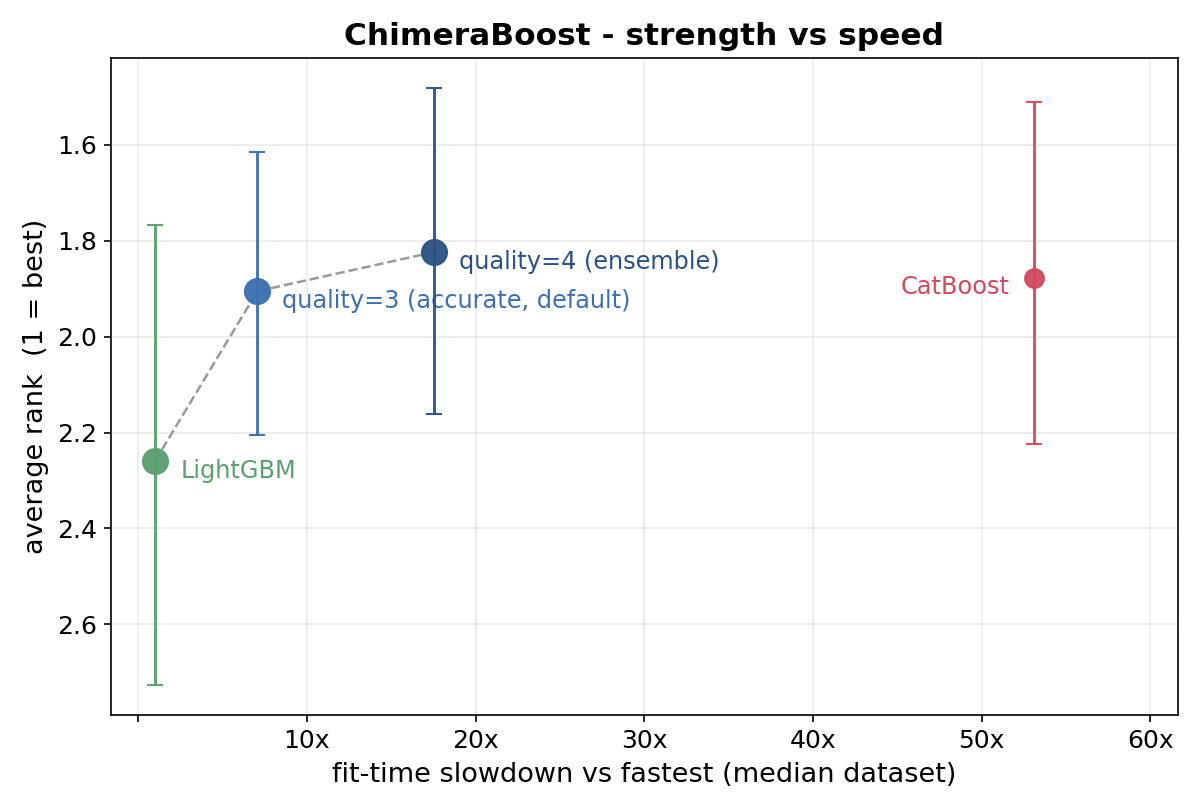
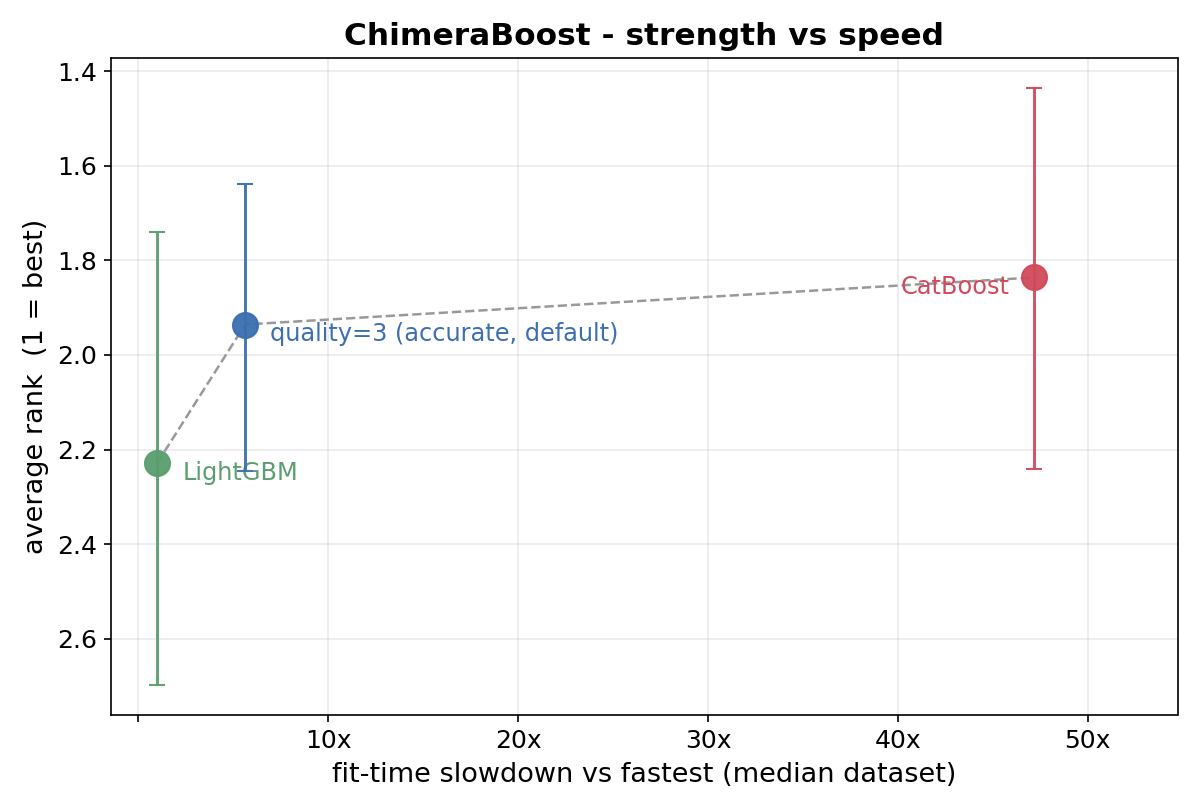
Refresh both benchmark charts on 0.33.0
- images/public_pareto.png: the published chart, re-run on the public
  suite (results/20260924-090541.json). The default's average rank is
  1.94 against CatBoost's 1.84 and LightGBM's 2.23, at a median 5.6x
  slowdown against 47.2x and 1.0x.
- images/pareto.png: the internal skill chart, re-rendered from the
  decide-tier run on 0.33.0 (results/20260924-130232.json). Every
  per-dataset score matches the 2026-09-22 run.
- docs/benchmarks.md and docs/PROJECT_STATUS.md quote the new numbers.
- CAMPAIGN_PLAN.md: facts for both runs, the F5 chart refresh marked
  done, issue #163 named as F7's next rung, and a new harness item
  H(14): the dataset metadata keeps the first-finished seed's
  test-split scale, which moves R2 by up to 0.0002 between runs.

diff --git a/benchmarks/CAMPAIGN_PLAN.md b/benchmarks/CAMPAIGN_PLAN.md
@@ -169,6 +169,8 @@ fact: 2026-09-23 | the recentred candidate alone blows up on tie-heavy targets (
 fact: 2026-09-24 | standing quantile BASE = `results/quantile-20260924-005306.json` (the Q7 default: depth 6, `conformalize="auto"`, `audition=True`, with the full field, ~3 h): gr head vs CatBoost MQ 27W-9L (+0.29%), vs RigidShift 29W-7L, vs LightGBM per-level 30W-6L, vs our per-level 34W-2L, vs NGBoost 35W-1L; 90% coverage 0.903 on gr; CRPS skill 0.6006 @ 7.4x over 59 keys, CatBoost MQ 0.5982 @ 133x off the frontier
 fact: 2026-09-24 | the muse sandbox ACL on `C:\Users\Nathan\.config\muse` refilled to 1,820 lines in about ten launches after the 2026-09-23 morning reset and failed with error 1340 at the end of a task (I062); reset again to 4 lines. Reset it every ~8 launches
 fact: 2026-09-24 | released 0.33.0 (aeab6ec, tag v0.33.0): CI green on 47ee154 (py3.9-3.13 on Ubuntu, py3.12 on Windows, ruff, docs deploy), 1217 passed locally, a 14-module wheel, `twine check` passed; PyPI and the GitHub release live; a clean-venv install from PyPI passed a smoke test outside the repo (the quantile audition picked `recentred`, 90% coverage 0.91, SHAP (10, 5, 19))
+fact: 2026-09-24 | the published chart on 0.33.0 (`results/20260924-090541.json`, public suite, 22 datasets x 3 seeds, 21 scored): the default avg rank 1.94 [1.64-2.24], CatBoost 1.84 [1.43-2.24], LightGBM 2.23 [1.74-2.70]; median slowdown 5.6x / 47.2x / 1.0x; the harness summary has the default 8W-13L against CatBoost (median -0.17%) and 14W-7L against LightGBM (+0.43%). The 2026-08-01 chart read 1.90 against CatBoost's 1.88 at 7.1x / 53.1x
+fact: 2026-09-24 | the internal chart on 0.33.0 (`results/20260924-130232.json`, decide tier, 3 seeds, the nine-arm field without the NoCatCount control): every per-seed metric equals `20260922-144219`'s bar one LightGBM Brier at the 17th digit, and the win rates are unchanged (default 70.7%). Skill: the default 0.4052 clf / 0.7341 reg at 4.9x / 6.3x, CatBoost 0.4057 / 0.7294 at 53.0x / 47.8x. Every arm's R² still moved by up to 0.0002, because the run's dataset metadata keeps the test-split scale of whichever seed finished first (H(14))
 
 ## Beam
 
@@ -178,9 +180,9 @@ fact: 2026-09-24 | released 0.33.0 (aeab6ec, tag v0.33.0): CI green on 47ee154 (
 | F4 | Profiling-driven speed | ACTIVE (C2 + C1 + C1b + C4a + C4a-2 + C3 shipped; measured objects exhausted; loop now on the shortlist queue) | **C3 SHIPPED (PR #127, c9c0f3d; I029)**: fused binary Logloss layer, bit-identical 155/155, Grinsztajn binary fits −4.7 to −5.7%, kick −4.2%, controls flat — the first F4 unit that reaches Grinsztajn. Next: the shortlist queue (H(4)+H(5), H(1), R2, R3); F4 has no measured exact-rewrite object left. Parked: C4b shared TS permutations (algorithm change). **C4a-2 SHIPPED (PR #126, 3706494; I028)**: the numeric block cast once per fit, porto-seguro −8.5% / kick −3.4%. **C4a SHIPPED (PR #125, a8f04c8; I027)**: categorical columns are factorized once per fit and each leg's codes derived by an integer re-rank — bit-identical 155/155, default fit −9.4% kick / −18.9% sf-police / −18.1% porto-seguro / −8.2% okcupid-stem, numeric control flat. |
 | F2 | Sub-gate cross via CV-averaged race | KILLED (I017) | 5/5 engaged precision at 3-7x cost; S1 did not replicate |
 | F3 | Classifier forced-cross | KILLED 2026-09-21 (S3, I021) | gr binary engaged 10W-13L, median −0.04%: the race earns its fee on the classifier. Knob stays opt-in (PR #117), no rung-1 pin |
-| F5 | hc-Brier gap vs CatBoost | **SHIPPED 2026-09-22 (I046, PR #145, d14bf38): `cat_count_features` on by default** (public 5W-1L, decide hc 6W-1L, bit-identical elsewhere, chart refreshed) — earlier: I038 library form, I039 S3 PASS | the published chart (`public_pareto.png`) refresh: IN FLIGHT 2026-09-24 on 0.33.0 (approved with the release plan); S7 (multiclass CTR width) is the family's next idea if picked. History: **A per-categorical count column closes 47% of CatBoost's hc edge** (I035): 4W-1L on the gap sets, +0.43% Brier median, gains ordered by cardinality, sf-police and Traffic unanimous across seeds. The gap is the encoder (CatBoost on our TS keeps none of its edge); not the prior target, Counter, permutations or quantization (TS quantization kills on big sets, +1.7–3.6% on the two small controls — a small-data pointer, parked). `cat_count_features` (opt-in, card ≥ 256, invisible to the cross and linear-leaf races; I038) on the decision tier (I039): gr 0-0-59 exact ties, the 7 hc sets without a qualifying column exact ties, the engaged 7 **6W-1L** at +0.20% median (sf-police +0.73%, Traffic +0.86% Brier; employee_salaries +2.45%, wine-reviews +0.56% RMSE), hc@time 4-0, fit ×1.09 on hc (engaged median 1.165). PR up with the flag OFF. The random-effects alternative (per-column ANOVA λ for the TS, I040) KILLED: uncapped it collapses the small controls (−3.8 / −9.6%), capped at 10 it is a flat wash and still costs kick and eucalyptus; the count column keeps evidence the shrinkage deletes. Next: the maintainer's go on /experiment S4 for the default flip; meanwhile R4 S0 |
+| F5 | hc-Brier gap vs CatBoost | **SHIPPED 2026-09-22 (I046, PR #145, d14bf38): `cat_count_features` on by default** (public 5W-1L, decide hc 6W-1L, bit-identical elsewhere, chart refreshed) — earlier: I038 library form, I039 S3 PASS | the published chart (`public_pareto.png`) refresh: DONE 2026-09-24 on 0.33.0 (`results/20260924-090541.json`, `--public --seeds 3`, 22 datasets, ~4 h: the default avg rank 1.94 [1.64-2.24] against CatBoost 1.84 [1.43-2.24] and LightGBM 2.23, at a median 5.6x against 47.2x and 1.0x; `docs/benchmarks.md` prose updated; `pareto.png` re-rendered from `results/20260924-130232.json` and `docs/PROJECT_STATUS.md` synced); S7 (multiclass CTR width) is the family's next idea if picked. History: **A per-categorical count column closes 47% of CatBoost's hc edge** (I035): 4W-1L on the gap sets, +0.43% Brier median, gains ordered by cardinality, sf-police and Traffic unanimous across seeds. The gap is the encoder (CatBoost on our TS keeps none of its edge); not the prior target, Counter, permutations or quantization (TS quantization kills on big sets, +1.7–3.6% on the two small controls — a small-data pointer, parked). `cat_count_features` (opt-in, card ≥ 256, invisible to the cross and linear-leaf races; I038) on the decision tier (I039): gr 0-0-59 exact ties, the 7 hc sets without a qualifying column exact ties, the engaged 7 **6W-1L** at +0.20% median (sf-police +0.73%, Traffic +0.86% Brier; employee_salaries +2.45%, wine-reviews +0.56% RMSE), hc@time 4-0, fit ×1.09 on hc (engaged median 1.165). PR up with the flag OFF. The random-effects alternative (per-column ANOVA λ for the TS, I040) KILLED: uncapped it collapses the small controls (−3.8 / −9.6%), capped at 10 it is a flat wash and still costs kick and eucalyptus; the count column keeps evidence the shrinkage deletes. Next: the maintainer's go on /experiment S4 for the default flip; meanwhile R4 S0 |
 | F6 | Ordered-TS train/test moment mismatch (shortlist R1) | KILLED 2026-09-21 (S1b, I025) — closed as barrier B18 | The defect is real (rare categories over-trusted, reliability 0.63–0.70) and two transform-side fixes both went 7W-5L against a bar of 8: the gain is sf-police (9 of 9 fits, +0.29% to +0.53%) and nothing else. Nothing ships; the open door is the Counter feature, which belongs to R3 |
-| F7 | Multi-quantile head (`ChimeraBoostQuantileRegressor`) | ACTIVE 2026-09-23 — the loop's focus (the maintainer's direction change). Phase 1, the bench, MERGED (I056, PR #156); Q0 DONE (I057, PR #157 merged): uncapped and validation-rescaled pay, depth 6 misses on its guard alone, recentred fails. Q3 CLOSED (I058, barrier B23: a larger rate loses); depth 6 + early-stopping-row calibration PAID (31W-5L, +0.33%, 90% error 3.43 → 0.47); PR #158 merged. **Q5 PASSED (I059): the head's default is now depth 6 + `conformalize="auto"`** (gr 31W-5L, +0.33%, 90% coverage error 3.43 → 0.47); PR #159 merged, snapshot rebaselined. **Q2 CLOSED (I060)**: no probe clears the tightened gate (sign p < 0.05); the five low-noise sets need resolution (bins) on two and a squared-error location on two; PR #160 merged. **Q6 T0 PASSED (I061)**: the validation-chosen head wins 23W-7L-6T (p 0.005), recovers 99% of the oracle, and tops the 59-key frontier above CatBoost MQ (0.6006 @ 7.2× against 0.5982 @ 129×); PR #161 merged. **Q7 PASSED (I062): the audition is the head's default** (identity 177/177 with the bench arm; gr 23W-7L-6T against the Q5 default, p 0.005; CatBoost MQ now 9W-27L against us, off the frontier); PR #162 merged, **released in 0.33.0** | **Q4 T0** once the published-chart refresh (F5) finishes: spread-aware categorical encoding (a TS of the spread per category), on the hc regressions and `catscale`. Then Q1 (P16). Program: `QUANTILE_PLAN.md` "Campaign 2026-09-23" |
+| F7 | Multi-quantile head (`ChimeraBoostQuantileRegressor`) | ACTIVE 2026-09-23 — the loop's focus (the maintainer's direction change). Phase 1, the bench, MERGED (I056, PR #156); Q0 DONE (I057, PR #157 merged): uncapped and validation-rescaled pay, depth 6 misses on its guard alone, recentred fails. Q3 CLOSED (I058, barrier B23: a larger rate loses); depth 6 + early-stopping-row calibration PAID (31W-5L, +0.33%, 90% error 3.43 → 0.47); PR #158 merged. **Q5 PASSED (I059): the head's default is now depth 6 + `conformalize="auto"`** (gr 31W-5L, +0.33%, 90% coverage error 3.43 → 0.47); PR #159 merged, snapshot rebaselined. **Q2 CLOSED (I060)**: no probe clears the tightened gate (sign p < 0.05); the five low-noise sets need resolution (bins) on two and a squared-error location on two; PR #160 merged. **Q6 T0 PASSED (I061)**: the validation-chosen head wins 23W-7L-6T (p 0.005), recovers 99% of the oracle, and tops the 59-key frontier above CatBoost MQ (0.6006 @ 7.2× against 0.5982 @ 129×); PR #161 merged. **Q7 PASSED (I062): the audition is the head's default** (identity 177/177 with the bench arm; gr 23W-7L-6T against the Q5 default, p 0.005; CatBoost MQ now 9W-27L against us, off the frontier); PR #162 merged, **released in 0.33.0** | **Issue #163** (the maintainer's: the RONGBA settings for the benchmark's NGBoost opponent), then **Q4 T0**: spread-aware categorical encoding (a TS of the spread per category), on the hc regressions and `catscale`. Then Q1 (P16). Program: `QUANTILE_PLAN.md` "Campaign 2026-09-23" |
 
 ### F1 — Cross-feature cost trim v2
 status: KILLED 2026-08-16 at S2 (I007 at k=6, I008 at k=12) — closed as barrier B16
@@ -5112,6 +5114,7 @@ next: F1 S0 entry, then step-0 compute items in sequence (tests → attribution 
 ## Open items (owner named, close-the-loop)
 
 - OPEN 2026-09-23, owner the loop (harness, H(13)): `make_pareto.py --metric blended` dies with `NameError: name 'FixedLocator' is not defined` (render_image, the blended branch; `FuncFormatter` is unimported too). Reproduced on main's code against `20260922-144219.json`; ruff flags it (F821). A diagnostic path only, the headline charts are unaffected. Fix with the next harness task.
+- OPEN 2026-09-24, owner the loop (harness, H(14)): `run_benchmarks.py` stores one metadata dict per dataset, `seed_map[next(iter(seed_map))][0]` (line ~2331), which is the first seed to FINISH under the parallel pool. `y_std_test` and `class_prior` are per-seed test-split quantities, so the recorded one is a race, and `make_pareto.py` divides the 3-seed mean RMSE by that one seed's scale. Two runs with identical per-seed metrics (`20260922-144219`, `20260924-130232`) recorded different seeds on 6 of 59 regression keys and moved every arm's R² by up to 0.0002; rankings and the classification panel are untouched (a flipped two-class prior gives the same reference). Fix: record the scale per seed and score skill per seed before averaging, or at least take the lowest seed. Fix with the next harness task, beside H(13).
 
 - CLOSED 2026-09-21: remote `e2/forced-cross-features`, `method/e2-prereg`, `loop-scaffolding` and the five merged `campaign/*` rung branches deleted (each verified fully merged into main first; the four stacked rung branches carried only content-free merge commits on top of commits main already has). The local copies of the five went with them.
 - Stale remotes, the maintainer's call (status verified 2026-09-21). Fully merged into main, safe to delete: `bench/portable-no-openml-api`, `refactor/readable-comments`, `worktree-tabarena-030-readiness`, `issue106-predict-thresh` (its local copy is 1 commit ahead — the calibration study PR #108 carries), `record/f2-loop-20260918` (checked out in `.record-worktree`). NOT merged: `docs/attribution-humility` (5 ahead), `docs/user-focused` (4 ahead), `bbstats-patch-1` (1 ahead), `whitepaper` (PR #108, open). Local worktree branch `f2/subgate-race` still waits on the I017 kill being confirmed.

diff --git a/docs/PROJECT_STATUS.md b/docs/PROJECT_STATUS.md
@@ -111,33 +111,33 @@ The harmonic mean collapses toward the **weaker leg**, so the blended diagnostic
 still answers "which task is weak". Ship decisions are unchanged (per-dataset sign
 tests); the chart axis is legibility only and gates nothing.
 
-**Current standing** (`results/20260922-144219.json`, 3 seeds, the decision
-suites: Grinsztajn + high-cardinality with their small-data and time-split
-twins; the default includes the count column, on since 2026-09-22). The field
-is the `quality` ladder (benchmarks/SELECT_PLAN.md) plus the external models,
-all co-run:
+**Current standing** (`results/20260924-130232.json`, the 0.33.0 release, 3
+seeds, the decision suites: Grinsztajn + high-cardinality with their small-data
+and time-split twins; the default includes the count column, on since
+2026-09-22). The field is the `quality` ladder (benchmarks/SELECT_PLAN.md) plus
+the external models, all co-run:
 
 | Model | `quality` | Brier skill (44 clf) | R² (59 reg) | Slowdown clf / reg | Win rate (diagnostic) |
 |---|---|--:|--:|--:|--:|
-| ChimeraBoostEns8 | 5 | 0.4104 | 0.7370 | 17.2× / 23.1× | 94.0% |
-| ChimeraBoostEns5 | 4 | 0.4089 | 0.7361 | 12.4× / 16.0× | 81.0% |
-| **ChimeraBoost** *(default)* | **3** | **0.4052** | **0.7342** | **5.0× / 6.4×** | **70.7%** |
-| CatBoost | — | 0.4057 | 0.7295 | 51.8× / 43.0× | 53.1% |
-| ChimeraBoostNoRefit | 2 | 0.3984 | 0.7290 | 3.8× / 5.0× | 42.0% |
-| ChimeraBoostOneLinX | 1 (reg) | 0.3958 | 0.7273 | 1.8× / 3.0× | 39.4% |
-| ChimeraBoostOneLin | 1 (clf) | 0.3958 | 0.7247 | 1.8× / 1.9× | 30.7% |
-| LightGBM | — | 0.4013 | 0.7223 | 1.0× / 1.2× | 20.4% |
-| sklearn_HGB | — | 0.4349 (36/44) | 0.7173 (53/59) | 4.0× / 6.7× | 14.3% |
+| ChimeraBoostEns8 | 5 | 0.4104 | 0.7368 | 17.0× / 23.1× | 94.0% |
+| ChimeraBoostEns5 | 4 | 0.4089 | 0.7360 | 12.4× / 15.9× | 81.0% |
+| **ChimeraBoost** *(default)* | **3** | **0.4052** | **0.7341** | **4.9× / 6.3×** | **70.7%** |
+| CatBoost | — | 0.4057 | 0.7294 | 53.0× / 47.8× | 53.1% |
+| ChimeraBoostNoRefit | 2 | 0.3984 | 0.7289 | 3.7× / 5.0× | 42.0% |
+| ChimeraBoostOneLinX | 1 (reg) | 0.3958 | 0.7271 | 1.8× / 3.0× | 39.4% |
+| ChimeraBoostOneLin | 1 (clf) | 0.3958 | 0.7246 | 1.8× / 1.9× | 30.7% |
+| LightGBM | — | 0.4013 | 0.7221 | 1.0× / 1.2× | 20.4% |
+| sklearn_HGB | — | 0.4349 (36/44) | 0.7172 (53/59) | 4.3× / 6.4× | 14.3% |
 
 On regression every ChimeraBoost rung is on the frontier, with LightGBM at the
 fast end. On classification the frontier is LightGBM, the default and the two
 bagged rungs; CatBoost sits 0.0005 of Brier skill above the default at about
-ten times its fit time, dominated by Ens5. sklearn_HGB's classification score
+eleven times its fit time, dominated by Ens5. sklearn_HGB's classification score
 is an average over the 36 sets it can fit, an easier subset, so it is shown
 but never on the frontier.
 
 On the pooled slowdown the 2026-07-31 table used, the default went from 7.1× to
-5.8×: the bit-identical speed work shipped since (fused loss kernels, one
+5.7×: the bit-identical speed work shipped since (fused loss kernels, one
 factorization per fit). The 2026-09-18 chart run is not comparable on this
 axis: it timed LightGBM and HGB 4–16× slower than the same libraries run
 today (benchmarks/CAMPAIGN_PLAN.md facts ledger, 2026-09-22). Win rate is

diff --git a/docs/benchmarks.md b/docs/benchmarks.md
@@ -21,9 +21,10 @@ and the leaderboard we quote never feeds back into the code.
 ![strength vs speed](https://raw.githubusercontent.com/bbstats/chimeraboost/main/images/public_pareto.png)
 
 Average rank across the public suite against median fit time, both measured only against
-CatBoost and LightGBM. The honest summary is that the default sits within noise of
-CatBoost at about a seventh of its median fit time: average ranks of 1.90 and 1.88 with
-overlapping intervals, at 7.1x versus 53.1x slowdown.
+CatBoost and LightGBM, measured on 0.33.0. The honest summary is that the default sits
+within noise of CatBoost, a little behind it on average rank, at about an eighth of its
+median fit time: average ranks of 1.94 and 1.84 with overlapping intervals, at 5.6x
+versus 47.2x slowdown.
 
 Datasets are picked on data properties alone: row counts, cardinality, missingness, task
 type. No benchmark result is allowed to influence which datasets are in a suite, or it
